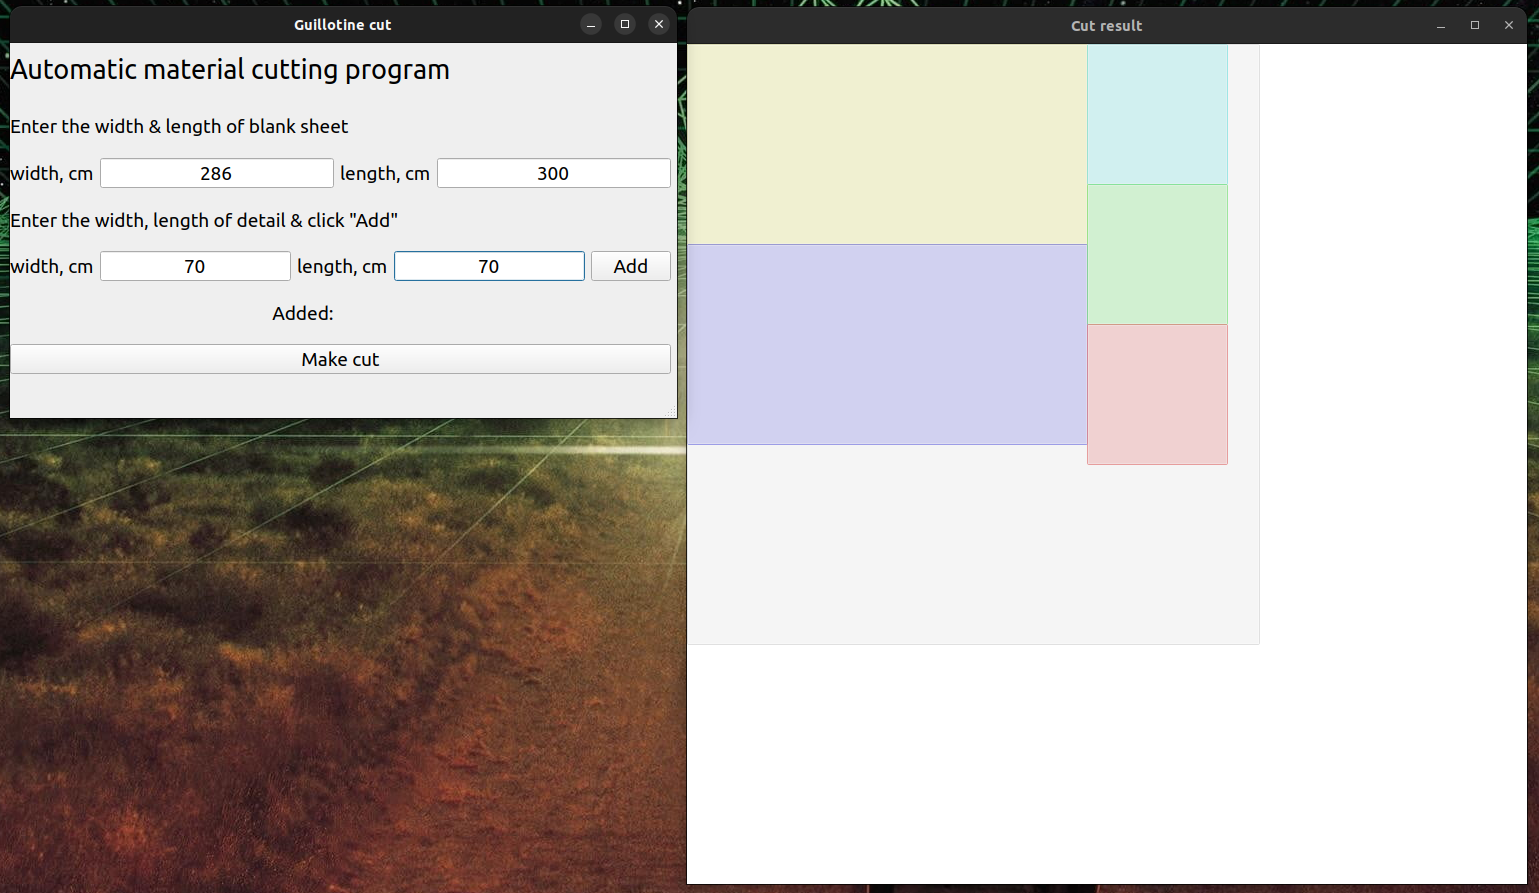
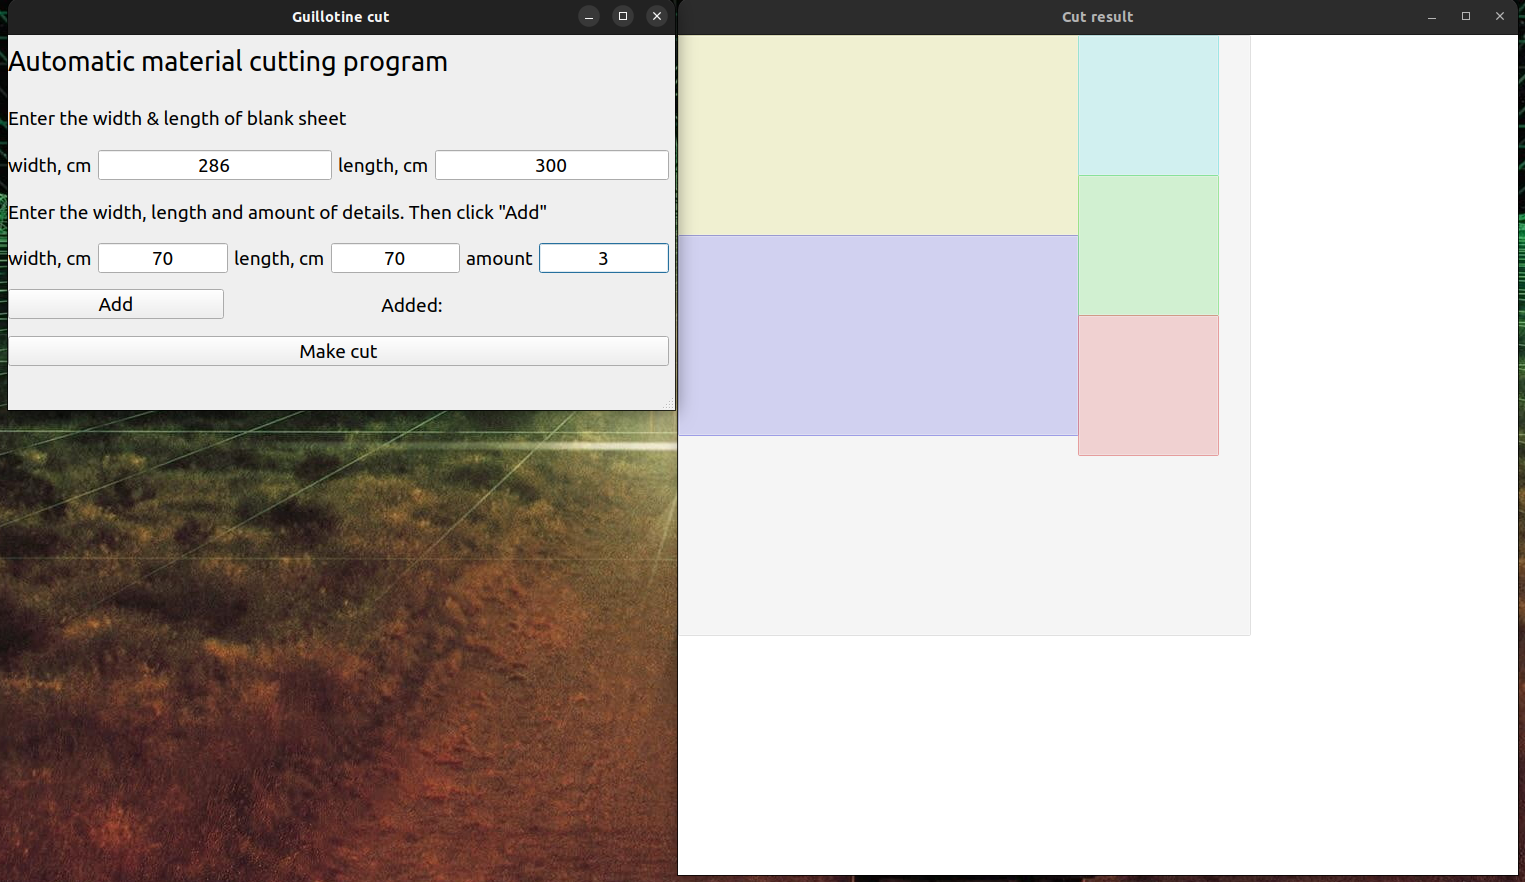
Amount option added

diff --git a/mainwindow.cpp b/mainwindow.cpp
@@ -47,17 +47,20 @@ void MainWindow::on_cutButton_clicked()
                              ,blank_width_*scale_factor_
                              ,blank_length_*scale_factor_);
     cut_widget->show();
-    ui->lineEdit->setText("");
-    ui->lineEdit_2->setText("");
+    ui->lineEdit->clear();
+    ui->lineEdit_2->clear();
 }
 
 void MainWindow::on_addButton_clicked()
 {
-   details_.push_back({0, 0, detail_width_, detail_length_});
+   for(size_t i = 0; i<amount_;i++){
+     details_.push_back({0, 0, detail_width_, detail_length_});
+   }
    QString new_detail = QString::number(detail_width_)+" x "+QString::number(detail_length_);
    ui->label_5->setText(new_detail);
-   ui->lineEdit_3->setText("");
-   ui->lineEdit_4->setText("");
+   ui->lineEdit_3->clear();
+   ui->lineEdit_4->clear();
+   //ui->lineEdit_5->clear();
 }
 
 void MainWindow::on_lineEdit_textChanged(const QString &arg1)
@@ -78,5 +81,17 @@ void MainWindow::on_lineEdit_3_textChanged(const QString &arg1)
 void MainWindow::on_lineEdit_4_textChanged(const QString &arg1)
 {
     detail_length_ = arg1.toUInt();
+}
+
+
+void MainWindow::on_lineEdit_5_textChanged(const QString &arg1)
+{
+    amount_ = arg1.toUInt();
+    if (amount_ == 0) {
+        ui->label_5->setText("Cant't cut 0 details");
+        amount_ = 1;
+    } else {
+        ui->label_5->clear();
+    }
 }
 

diff --git a/mainwindow.h b/mainwindow.h
@@ -22,6 +22,7 @@ public:
     int blank_length_;
     int detail_width_;
     int detail_length_;
+    uint amount_;
     static const size_t scale_factor_ = 2;
     static const size_t screen_width_ = 840;
     static const size_t screen_height_ = 840;
@@ -41,6 +42,8 @@ private slots:
     void on_lineEdit_3_textChanged(const QString &arg1);
 
     void on_lineEdit_4_textChanged(const QString &arg1);
+
+    void on_lineEdit_5_textChanged(const QString &arg1);
 
 private:
     Ui::MainWindow *ui;

diff --git a/README.md b/README.md
@@ -4,10 +4,10 @@ Application for automatic cutting of rectangular details.
 
 ![Alt text](Docs/main_window.png)
 ## How to use
-* Enter width, cm (1) and length, cm (2) of blank sheet.
-* Enter width, cm (3) and length, cm (4) of new detail.
+* Enter width, cm [1] and length, cm [2] of blank sheet.
+* Enter width (cm) [3], length (cm) [4] and amount [5] of new details.
 * Click: "Add". 
-* Repeat the previous two steps to add another detail. 
+* Repeat the previous two steps to add another details. 
 * When all the necessary details have been added click: "Make cut".
 
 ## Under the hood
